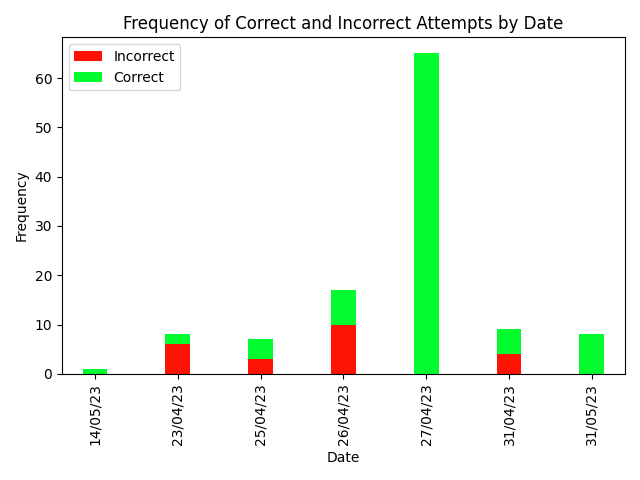
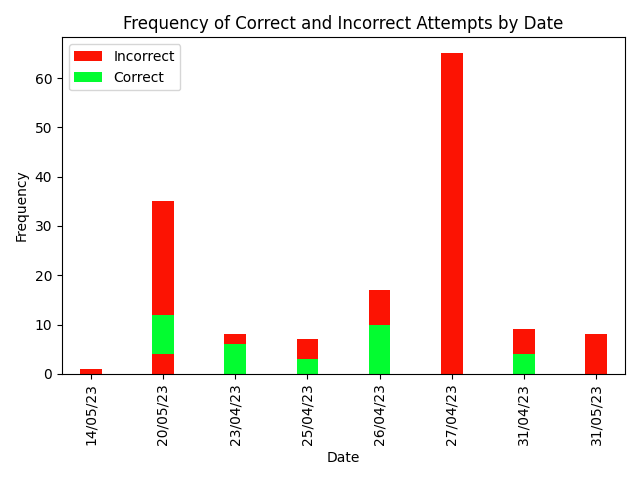
Updates team page and added photos

diff --git a/templates/team.html b/templates/team.html
@@ -71,44 +71,44 @@
   
 
   <div class="team-member">
-    <img src="https://via.placeholder.com/350x350" alt="Person 1">
-    <h2>John Doe</h2>
+    <img src="static/images/team/alhad.png" alt="Person 1">
+    <h2>Alhad Chatur</h2>
     
-    <p>Email: john@example.com</p>
+    <p>Email: b21089@students.iitmandi.ac.in</p>
   </div>
 
 
   <div class="team-member">
-    <img src="https://via.placeholder.com/350x350" alt="Person 2">
-    <h2>Jane Smith</h2>
+    <img src="static/images/team/vihan.png" alt="Person 2">
+    <h2>Vihan Kapoor</h2>
     
-    <p>Email: jane@example.com</p>
+    <p>Email: b21144@students.iitmandi.ac.in</p>
   </div>
   <!-- Repeat for other team members -->
   <div class="team-member">
-    <img src="https://via.placeholder.com/350x350" alt="Person 2">
-    <h2>Jane Smith</h2>
+    <img src="static/images/team/gaurav.jpg" alt="Person 2">
+    <h2>Gourav Jangra</h2>
     
-    <p>Email: jane@example.com</p>
+    <p>Email: b21191@students.iitmandi.com</p>
   </div>
   <div class="team-member">
-    <img src="https://via.placeholder.com/350x350" alt="Person 2">
-    <h2>Jane Smith</h2>
+    <img src="static/images/team/rachna.png" alt="Person 2">
+    <h2>Rachna Shaw</h2>
     
-    <p>Email: jane@example.com</p>
+    <p>Email: b21259@students.iitmandi.ac.in</p>
   </div>
 
   <div class="team-member">
-    <img src="https://via.placeholder.com/350x350" alt="Person 2">
-    <h2>Jane Smith</h2>
+    <img src="static/images/team/ashish.jpg" alt="Person 2">
+    <h2>Ashish Meena</h2>
     
-    <p>Email: jane@example.com</p>
+    <p>Email: b21280@students.iitmandi.ac.in</p>
   </div>
   <div class="team-member">
-    <img src="https://via.placeholder.com/350x350" alt="Person 2">
-    <h2>Jane Smith</h2>
+    <img src="static/images/team/devi.png" alt="Person 2">
+    <h2>Devi Sanikomu</h2>
     
-    <p>Email: jane@example.com</p>
+    <p>Email: b21165@students.iitmandi.ac.in</p>
   </div>
   
 </div>

diff --git a/templates/word_analysis.html b/templates/word_analysis.html
@@ -115,7 +115,7 @@
       <div class='inside'>
         <h2>Recorded accuracy Over Time</h2>
         <p>
-          This plot shows the accuracy of the child's answers over time.<br><br> The accuracy is calculated as the percentage of correct answers out of the total number of questions answered on each day.<br><br> The blue line represents the accuracy trend, and the blue dots represent the accuracy on each day. 
+          This plot shows the accuracy of the child's answers over time.<br><br> The accuracy is calculated as the percentage of correct answers out of the total number of questions answered on each day.<br><br>
         </p>
       </div>
         <button class = 'reload' onclick="location.reload()">Reload</button>

diff --git a/static/css/responsive.css b/static/css/responsive.css
@@ -105,6 +105,10 @@
       z-index: 1;
     }
 
+    .analysis_heading {
+      font-size: 20px;
+    }
+  
   }
 
   

diff --git a/app.py b/app.py
@@ -156,7 +156,7 @@ def analysis():
         letter = row['letter']
         incorrect_data = row['incorrectdata']
         incorrect_data_list = eval(incorrect_data)  # convert string to list
-        correct = sum(incorrect_data_list)
+        correct = len(incorrect_data_list)
         incorrect = len(incorrect_data_list) - correct
 
         if letter not in letter_freq:
@@ -178,20 +178,21 @@ def analysis():
         total_attempts = freq['total']/6
         
         f.write( str(letter) + '  ' + str(total_attempts) + '\n')
-        if total_attempts < 5:
+        if total_attempts <= 5:
             completion_percentage = 0
        
         else:
-            completion_percentage = min( 100 , ( 2 *freq['correct'] / 3) / (freq['correct'] / 3 + freq['incorrect'] / 2) * 100)
+            # logic 60% completion over time is marked with 100% completions and calculated if attempts more that equal to 5
+            completion_percentage = min( 100 , 100*(freq['correct'] * 100 ) / (freq['correct'] + freq['incorrect'] * 60  ))
 
         x_ticks.append(letter)
         y_values.append(completion_percentage)
 
     sorted_indices = sorted(range(len(x_ticks)), key=lambda x: x_ticks[x])
     sorted_list1 = [x_ticks[i] for i in sorted_indices]
-    sorted_list2 = [y_values[i] for i in sorted_indices]
+    sorted_list2 = [y_values[i] for i in sorted_indices] 
     
-    ax.barh(sorted_list1, sorted_list2, color='green')
+    ax.barh(sorted_list1, sorted_list2, color='green' , height = 0.9)
 
     y_values.sort(reverse=True)
     plt.xlabel('Completion Percentage')
